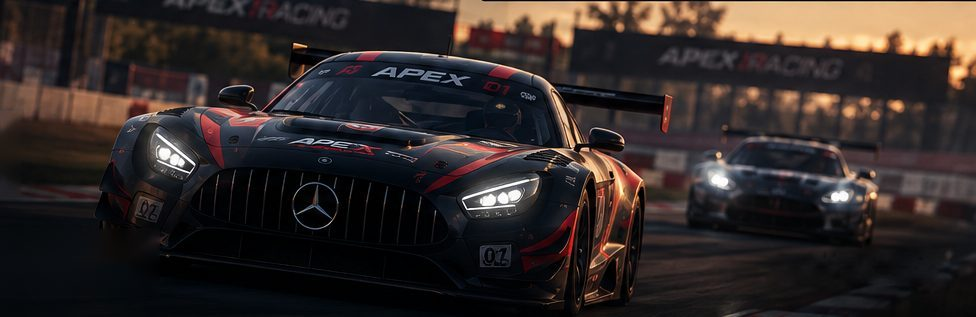
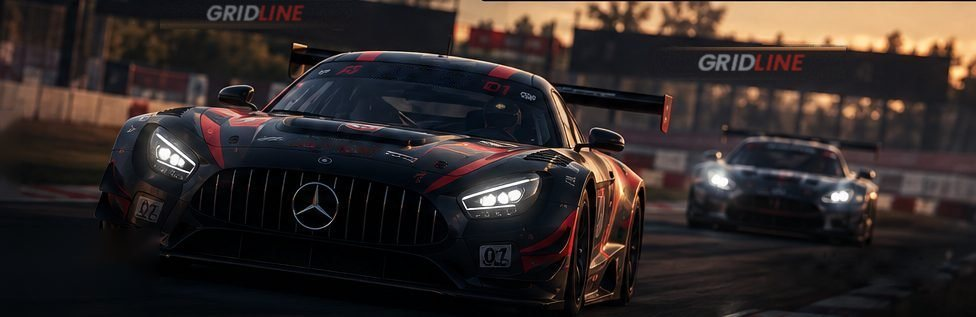
rename to Gridline

diff --git a/public/index.html b/public/index.html
@@ -2,12 +2,14 @@
 <html lang="en">
 <head>
 <meta charset="UTF-8">
+<meta name="description" content="Gridline: ranked iRacing with its own independent ranking system.">
 <meta name="viewport" content="width=device-width, initial-scale=1, viewport-fit=cover">
-<title>Apex Racing</title>
+<title>Gridline</title>
 <link rel="preconnect" href="https://fonts.googleapis.com">
 <link rel="preconnect" href="https://fonts.gstatic.com" crossorigin>
 <link href="https://fonts.googleapis.com/css2?family=Barlow+Condensed:ital,wght@0,500;0,600;0,700;1,700;1,800;1,900&family=Barlow:wght@400;500;600;700&display=swap" rel="stylesheet">
 <link rel="stylesheet" href="/css/styles.css">
+
 </head>
 <body>
 <div class="app">
@@ -15,7 +17,7 @@
   <!-- ===================== SIDEBAR ===================== -->
   <aside class="sidebar" id="sidebar" aria-label="Main navigation">
     <div class="brand">
-      <div class="brand-mark">APEX<span class="r">RACING</span></div>
+      <div class="brand-mark">GRID<span class="r">LINE</span></div>
       <div class="brand-tag">Drivers. Races. Ranks. Together.</div>
     </div>
     <ul class="nav" id="nav"></ul>
@@ -30,7 +32,7 @@
         <button class="icon-btn menu-btn" id="menuBtn" aria-label="Open menu">
           <svg viewBox="0 0 24 24" fill="none" stroke="currentColor" stroke-width="2" stroke-linecap="round"><path d="M4 7h16M4 12h16M4 17h16"/></svg>
         </button>
-        <div class="mobile-brand">APEX<span class="r">RACING</span></div>
+        <div class="mobile-brand">GRID<span class="r">LINE</span></div>
         <div class="spacer"></div>
         <div class="user" id="userChip"></div>
         <button class="icon-btn" aria-label="Notifications" id="bellBtn">
@@ -38,7 +40,7 @@
           <span class="dot" id="notifCount"></span>
         </button>
         <a class="icon-btn" href="#settings" aria-label="Settings">
-          <svg viewBox="0 0 24 24" fill="none" stroke="currentColor" stroke-width="1.7" stroke-linecap="round" stroke-linejoin="round"><circle cx="12" cy="12" r="3"/><path d="M19.4 15a1.65 1.65 0 0 0 .33 1.82l.06.06a2 2 0 1 1-2.83 2.83l-.06-.06a1.65 1.65 0 0 0-1.820-.33 1.65 1.65 0 0 0-1 1.51V21a2 2 0 1 1-4 0v-.09A1.65 1.65 0 0 0 9 19.4a1.65 1.65 0 0 0-1.82.33l-.06.06a2 2 0 1 1-2.83-2.83l.06-.06A1.65 1.65 0 0 0 4.68 15a1.65 1.65 0 0 0-1.51-1H3a2 2 0 1 1 0-4h.09A1.65 1.65 0 0 0 4.6 9a1.65 1.65 0 0 0-.33-1.82l-.06-.06a2 2 0 1 1 2.83-2.83l.06.06A1.65 1.65 0 0 0 9 4.68a1.65 1.65 0 0 0 1-1.51V3a2 2 0 1 1 4 0v.09a1.65 1.65 0 0 0 1 1.51 1.65 1.65 0 0 0 1.82-.33l.06-.06a2 2 0 1 1 2.83 2.83l-.06.06A1.65 1.65 0 0 0 19.4 9a1.65 1.65 0 0 0 1.51 1H21a2 2 0 1 1 0 4h-.09a1.65 1.65 0 0 0-1.51 1z"/></svg>
+          <svg viewBox="0 0 24 24" fill="none" stroke="currentColor" stroke-width="1.7" stroke-linecap="round" stroke-linejoin="round"><circle cx="12" cy="12" r="3"/><path d="M19.4 15a1.65 1.65 0 0 0 .33 1.82l.06.06a2 2 0 1 1-2.83 2.83l-.06-.06a1.65 1.65 0 0 0-1.82-.33 1.65 1.65 0 0 0-1 1.51V21a2 2 0 1 1-4 0v-.09A1.65 1.65 0 0 0 9 19.4a1.65 1.65 0 0 0-1.82.33l-.06.06a2 2 0 1 1-2.83-2.83l.06-.06A1.65 1.65 0 0 0 4.68 15a1.65 1.65 0 0 0-1.51-1H3a2 2 0 1 1 0-4h.09A1.65 1.65 0 0 0 4.6 9a1.65 1.65 0 0 0-.33-1.82l-.06-.06a2 2 0 1 1 2.83-2.83l.06.06A1.65 1.65 0 0 0 9 4.68a1.65 1.65 0 0 0 1-1.51V3a2 2 0 1 1 4 0v.09a1.65 1.65 0 0 0 1 1.51 1.65 1.65 0 0 0 1.82-.33l.06-.06a2 2 0 1 1 2.83 2.83l-.06.06A1.65 1.65 0 0 0 19.4 9a1.65 1.65 0 0 0 1.51 1H21a2 2 0 1 1 0 4h-.09a1.65 1.65 0 0 0-1.51 1z"/></svg>
         </a>
       </header>
     </div>
@@ -115,10 +117,10 @@
   </div>
 
   <!-- ============ RANK LADDER ============ -->
-  <footer class="ladder" aria-label="Apex rank tiers">
-    <div class="ladder-track" id="ladder"></div>
-    <div class="ladder-slogan">Same<br>track.<br>A higher<br>standard.</div>
-  </footer>
+    <footer class="ladder" aria-label="Gridline rank tiers">
+      <div class="ladder-track" id="ladder"></div>
+      <div class="ladder-slogan">Same<br>track.<br>A higher<br>standard.</div>
+    </footer>
 </div>
 
 <div class="toast" id="toast" role="status" aria-live="polite"></div>

diff --git a/public/js/app.js b/public/js/app.js
@@ -1,5 +1,5 @@
 /* =====================================================================
-   APEX RACING — FRONT END
+   GRIDLINE — FRONT END
    All data comes from the server's /api routes. The rank tiers
    themselves live on the server in src/ranks.js.
    ===================================================================== */
@@ -47,10 +47,10 @@ function badgeSVG(tier){
 
 /* =====================================================================
    2. API CLIENT
-   Talks to the Apex server. The server decides whether the data comes
+   Talks to the Gridline server. The server decides whether the data comes
    from sample data or from iRacing — the page doesn't need to know.
    ===================================================================== */
-const ApexAPI = {
+const GridlineAPI = {
   async request(path, options = {}){
     const res = await fetch("/api" + path, {
       headers:{ "Content-Type":"application/json" },
@@ -95,11 +95,11 @@ const ROUTES = [
   { id:"find-race", label:"Find Race",  icon:"flag",   blurb:"Search open ranked lobbies by series, car and start time." },
   { id:"schedule",  label:"Schedule",   icon:"cal",    blurb:"The full week of ranked sessions, in your local time." },
   { id:"profile",   label:"My Profile", icon:"user",   blurb:"Your RP history, form, incidents and career stats." },
-  { id:"rankings",  label:"Rankings",   icon:"trophy", blurb:"Global and regional Apex leaderboards." },
-  { id:"series",    label:"Series",     icon:"car",    blurb:"Every Apex series with its cars, tracks and rules." },
+  { id:"rankings",  label:"Rankings",   icon:"trophy", blurb:"Global and regional Gridline leaderboards." },
+  { id:"series",    label:"Series",     icon:"car",    blurb:"Every Gridline series with its cars, tracks and rules." },
   { id:"results",   label:"Results",    icon:"chart",  blurb:"Every race you've entered, with RP changes." },
   { id:"incidents", label:"Incidents",  icon:"doc",    blurb:"Report an incident or track a review you're involved in." },
-  { id:"news",      label:"News",       icon:"mega",   blurb:"Announcements from the Apex team." },
+  { id:"news",      label:"News",       icon:"mega",   blurb:"Announcements from the Gridline team." },
   { id:"store",     label:"Store",      icon:"cart",   blurb:"Liveries, badges and supporter perks." },
   { id:"settings",  label:"Settings",   icon:"gear",   blurb:"Account, iRacing link and notification preferences." },
 ];
@@ -169,7 +169,7 @@ function renderNextRace(r){
     const btn = $("#joinBtn");
     btn.disabled = true;
     try {
-      const { race } = await ApexAPI.joinRace(r.id);
+      const { race } = await GridlineAPI.joinRace(r.id);
       Object.assign(r, race);
       btn.className = "btn btn-md btn-done";
       btn.textContent = "Registered";
@@ -203,7 +203,7 @@ function startCountdown(target){
     if (s === 0){
       el.textContent = "Live now"; el.classList.add("live"); clearInterval(countdownTimer);
       // once it's started, load the following race after a minute
-      setTimeout(() => ApexAPI.getHome().then(d => renderNextRace(d.nextRace)).catch(() => {}), 60000);
+      setTimeout(() => GridlineAPI.getHome().then(d => renderNextRace(d.nextRace)).catch(() => {}), 60000);
       return;
     }
     const p = n => String(n).padStart(2, "0");
@@ -310,7 +310,7 @@ async function init(){
   route();
 
   try {
-    const [data, ranks] = await Promise.all([ApexAPI.getHome(), ApexAPI.getRanks()]);
+    const [data, ranks] = await Promise.all([GridlineAPI.getHome(), GridlineAPI.getRanks()]);
     const { driver, rank } = data;
 
     renderUser(driver, rank.tier);

diff --git a/server.js b/server.js
@@ -30,6 +30,6 @@ app.use((err, req, res, next) => {
 });
 
 app.listen(PORT, () => {
-  console.log(`Apex Racing running on http://localhost:${PORT}`);
+  console.log(`Gridline running on http://localhost:${PORT}`);
   console.log(`Data source: ${process.env.DATA_SOURCE || "mock"}`);
 });
